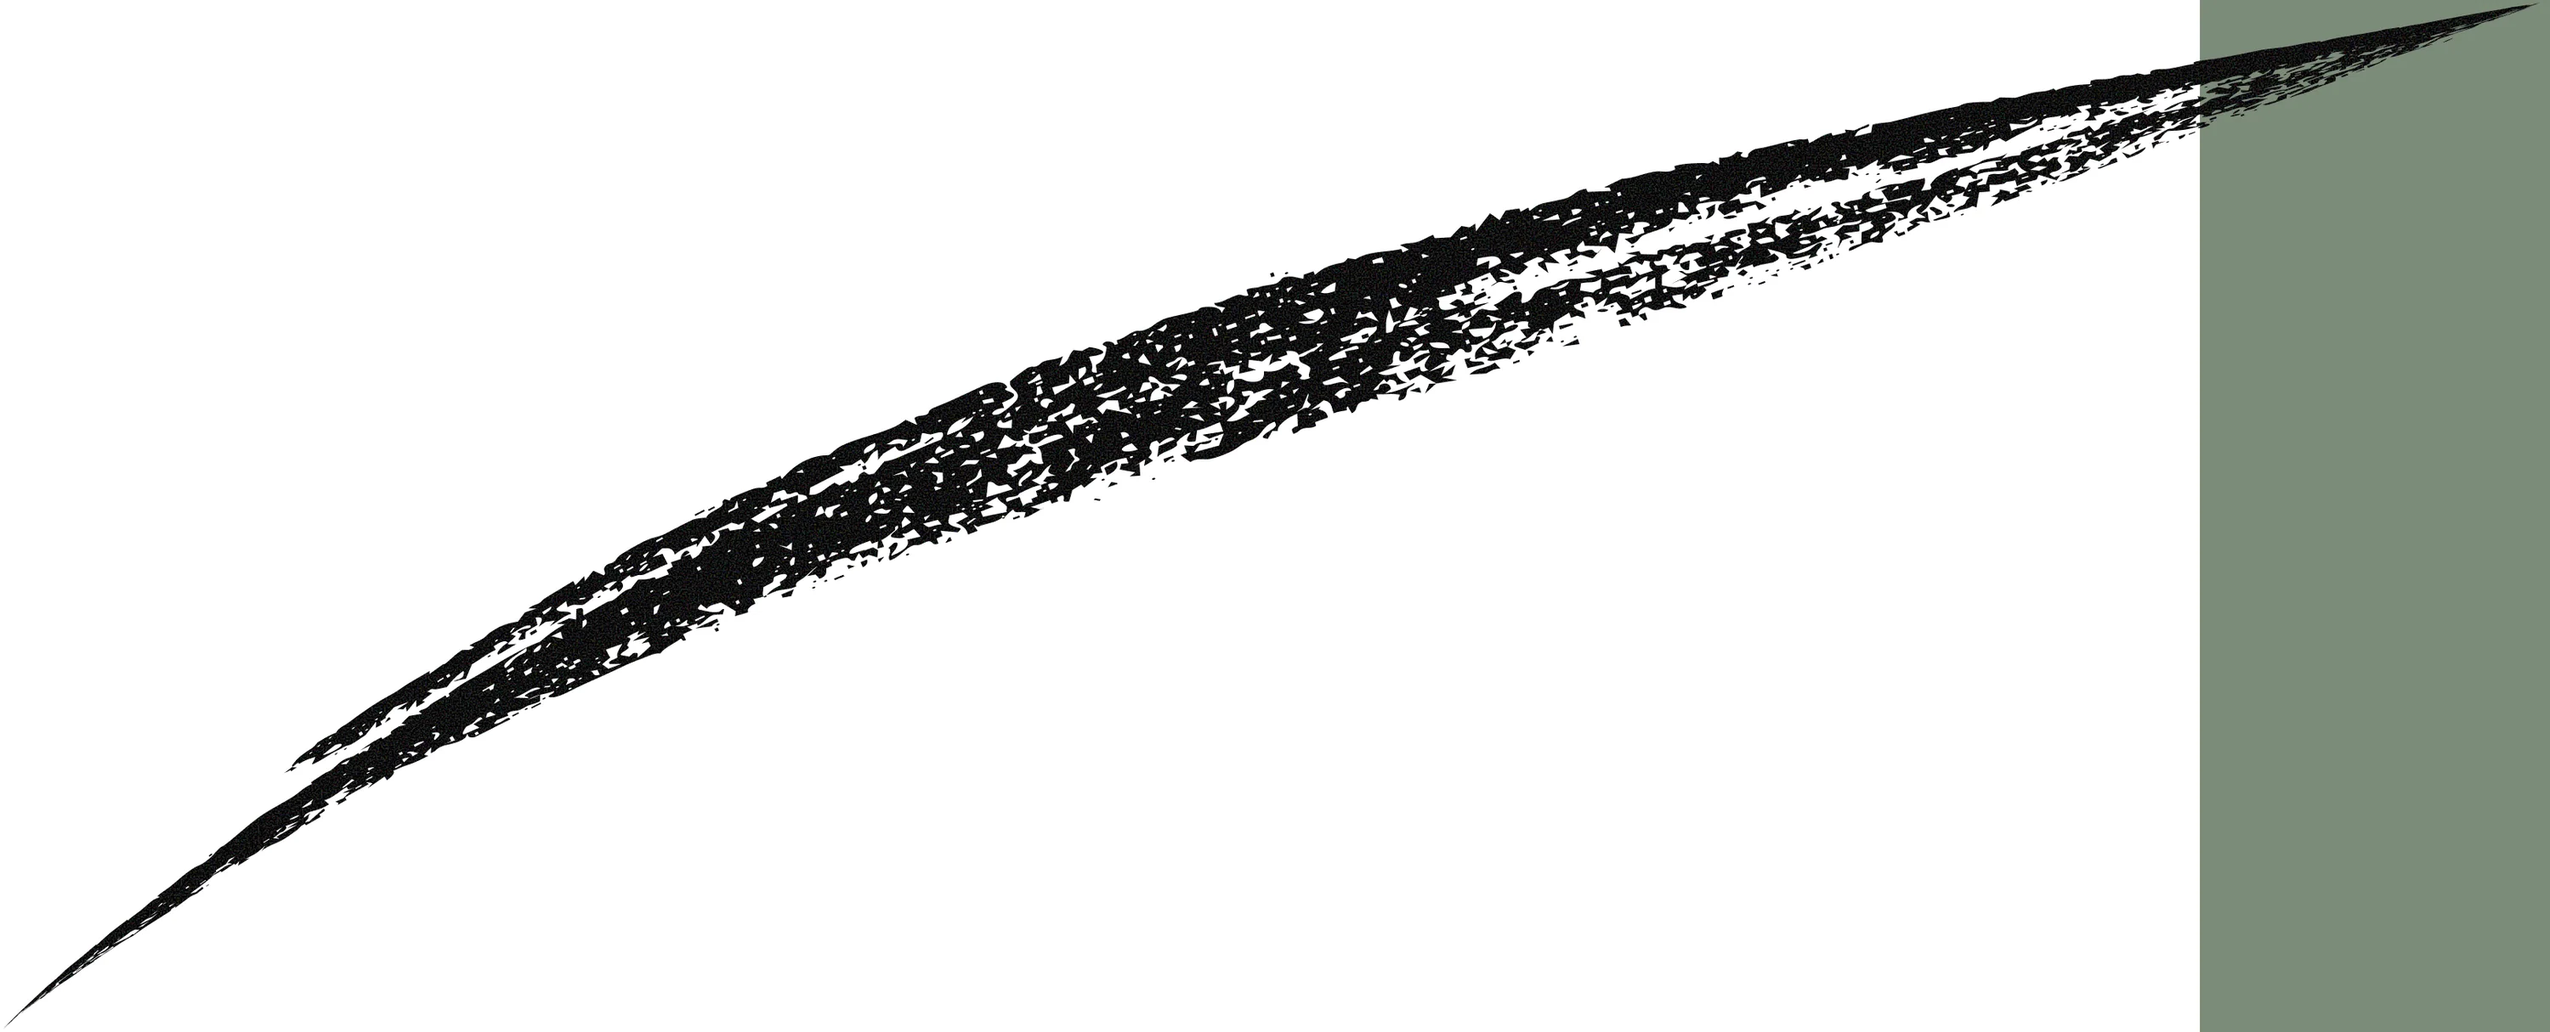
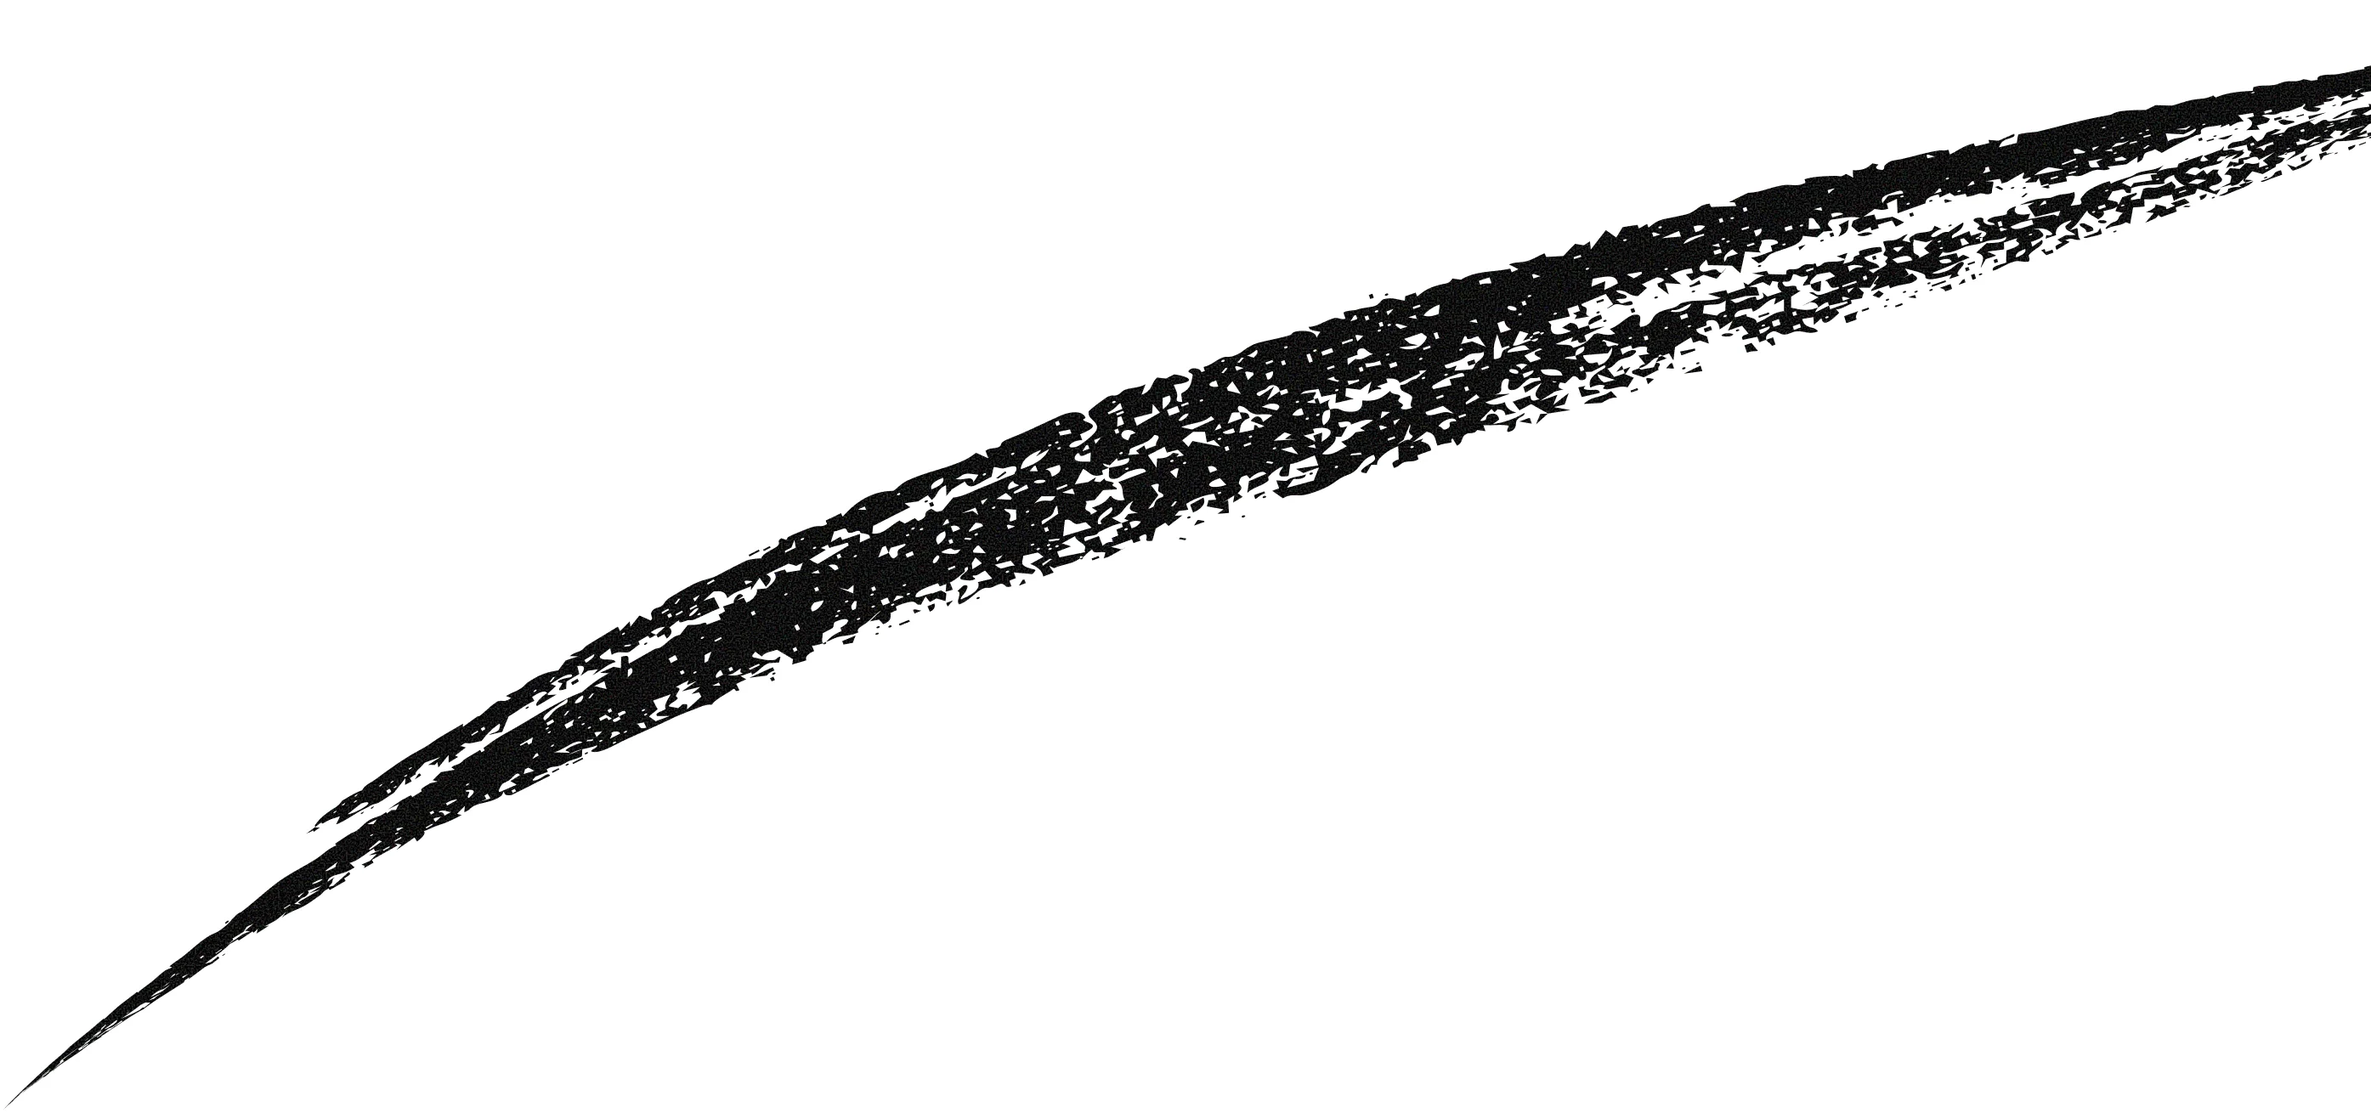
HOME hover colours, footer contact links, remove stray line in COLLECTIONS
Category labels, season nav (name + arrow) and VIEW ALL turn #831A1F on hover via .hover-group/:has. Archive Sweep renders trimmed at the Figma frame edge (the export's grey off-frame area showed as a vertical line); originals kept as .png.orig. Footer contact e-mails are mailto: links, IG opens the Instagram profile. check-home 31, check-site 35.

Changed region(s): [[0.0312, 0.0, 1.0, 1.0], [0.0, 0.944, 0.0312, 0.9745]]

diff --git a/src/components/home/Collections.tsx b/src/components/home/Collections.tsx
@@ -9,7 +9,7 @@ const img = (name: string) => `/images/home/${name}.webp`;
 
 /** Transparent hit area for a season switch (the visual is drawn by the text / arrow / background layers). */
 function SeasonSwitch({ d, m, label, onClick }: { d?: Box; m?: Box; label: string; onClick: () => void }) {
-  const p = place({ d, m }, 'col__switch');
+  const p = place({ d, m }, 'col__switch hover-target');
   return <button type="button" className={p.className} style={p.style} aria-label={label} onClick={onClick} />;
 }
 
@@ -21,10 +21,31 @@ function NavFrame({ d, viewAll, viewAllText }: { d: Box; viewAll: Box; viewAllTe
   return (
     <>
       <Frame className="col__nav" d={d} m={[16, 3016, 269, 48]} />
-      <Pic src={img('r-viewall-bg')} fit="fill" d={viewAll} />
-      <Frame className="col__nav-viewall" m={[285, 3016, 92, 48]} />
-      <T fs={[24, 16]} cls="f-sans w300 tr-4 c-inverse" d={viewAllText} m={[363, 3031]} ax="r">VIEW ALL</T>
+      {/* hovering the VIEW ALL cell turns its text #831A1F (no target design — colour only) */}
+      <div className="hover-group">
+        <Pic src={img('r-viewall-bg')} fit="fill" d={viewAll} className="hover-target" />
+        <Frame className="col__nav-viewall hover-target" m={[285, 3016, 92, 48]} />
+        <T fs={[24, 16]} cls="f-sans w300 tr-4 c-inverse hover-accent hover-target" d={viewAllText} m={[363, 3031]} ax="r">VIEW ALL</T>
+      </div>
     </>
+  );
+}
+
+/**
+ * Season navigation item (collection name + arrow): hovering it turns both #831A1F.
+ * With `onClick` a transparent button covers the item; without it (SS27 / AW25, no design) it is colour-only.
+ */
+function SeasonItem({ text, textBox, align, arrow, arrowM, arrowDir, hit, hitM, label, onClick }: {
+  text: string; textBox: Box; align?: 'r'; arrow: Box; arrowM: Box; arrowDir: 'left' | 'right';
+  hit?: Box; hitM?: Box; label?: string; onClick?: () => void;
+}) {
+  return (
+    <div className="hover-group">
+      <T fs={[24]} cls="f-sans w300 tr-4 hover-accent hover-target" d={textBox} ax={align}>{text}</T>
+      <Arrow variant="nav" dir={arrowDir} className="hover-accent hover-target" d={arrow} />
+      <Arrow variant="navM" dir={arrowDir} m={arrowM} />
+      {onClick && hit && <SeasonSwitch d={hit} m={hitM} label={label ?? text} onClick={onClick} />}
+    </div>
   );
 }
 
@@ -46,19 +67,16 @@ export function Collections() {
           <Pic src={img('r-ss26-detail')} fit="fill" className="col__img" d={[60, 6517, 344, 460]} m={[293, 2751, 84, 111]} alt="SS26 SAMPLING" />
 
           <NavFrame d={[60, 7036.99, 1799, 77.852]} viewAll={[1496, 7037, 364, 77.838]} viewAllText={[1825.91, 7061.32]} />
-          <T fs={[24]} cls="f-sans w300 tr-4" d={[1386, 7060.64]} ax="r">AW26: [UNEARTH: FILE-2711]</T>
-          <Arrow variant="nav" dir="right" d={[1409, 7060.64, 43, 27.12]} />
-          <T fs={[24]} cls="f-sans w300 tr-4" d={[160, 7062.61]}>AW25: AW25 LAMB&apos;S HEAD AND THE SHELL</T>
-          <Arrow variant="nav" d={[94, 7062.61, 43, 27.12]} />
-          <Arrow variant="navM" dir="right" m={[248, 3034, 19, 12.16]} />
-          <Arrow variant="navM" m={[33, 3039, 19, 12.16]} />
-          <SeasonSwitch d={[1096, 7060.64, 356, 28.6]} m={[16, 3016, 269, 48]} label="AW26 컬렉션 보기" onClick={() => setSeason('AW26')} />
+          <SeasonItem text="AW26: [UNEARTH: FILE-2711]" textBox={[1386, 7060.64]} align="r" arrow={[1409, 7060.64, 43, 27.12]} arrowM={[248, 3034, 19, 12.16]} arrowDir="right"
+            hit={[1096, 7060.64, 356, 28.6]} hitM={[16, 3016, 269, 48]} label="AW26 컬렉션 보기" onClick={() => setSeason('AW26')} />
+          <SeasonItem text="AW25: AW25 LAMB'S HEAD AND THE SHELL" textBox={[160, 7062.61]} arrow={[94, 7062.61, 43, 27.12]} arrowM={[33, 3039, 19, 12.16]} arrowDir="left" />
 
-          {/* Decoration / Archive Sweep (noise effect) — 2x renders placed at their render bounds */}
-          <Pic src={img('r-sweep-large')} fit="fill" className="col__sweep" d={[525, 5928.84, 1617, 655]} />
-          <Pic src={img('r-sweep-large-m')} fit="fill" className="col__sweep" m={[36.15, 2519.13, 472.06, 220.48]} />
-          <Pic src={img('r-sweep-small')} fit="fill" className="col__sweep" d={[1351.85, 5854.5, 651.65, 467.15]} />
-          <Pic src={img('r-sweep-small-m')} fit="fill" className="col__sweep" m={[220.32, 2496, 236.36, 200.24]} />
+          {/* Decoration / Archive Sweep (noise effect) — 2x renders placed at their render bounds, trimmed at the frame's right
+              edge (the export's grey off-frame area showed as a line; scripts/trim-frame-edge.mjs) */}
+          <Pic src={img('r-sweep-large')} fit="fill" className="col__sweep" d={[525, 5928.84, 1395, 655]} />
+          <Pic src={img('r-sweep-large-m')} fit="fill" className="col__sweep" m={[36.15, 2519.13, 356.67, 220.48]} />
+          <Pic src={img('r-sweep-small')} fit="fill" className="col__sweep" d={[1351.85, 5854.5, 567.7, 467.15]} />
+          <Pic src={img('r-sweep-small-m')} fit="fill" className="col__sweep" m={[220.32, 2496, 172.4, 200.24]} />
 
           <Pic src={img('r-ss26-main')} fit="fill" className="col__img" d={[909, 6191, 587, 786]} m={[16, 2623, 269, 361]} alt="SS26 SAMPLING" />
           <Pic src={img('ss26-secondary')} fit="cover" className="col__img" d={[1516, 6191.16, 344, 461]} m={[293, 2623, 84, 113]} alt="SS26 SAMPLING" />
@@ -73,13 +91,9 @@ export function Collections() {
           </RotatedBox>
 
           <NavFrame d={[60, 7036, 1800, 78]} viewAll={[1496.8, 7036.16, 363.2, 77.84]} viewAllText={[1826, 7060.48]} />
-          <T fs={[24]} cls="f-sans w300 tr-4" d={[1386.74, 7059.7]} ax="r">SS27: BRUTALIST</T>
-          <Arrow variant="nav" dir="right" d={[1409.75, 7059.7, 43.02, 27.17]} />
-          <T fs={[24]} cls="f-sans w300 tr-4" d={[160.06, 7061.67]}>SS26: SAMPLING</T>
-          <Arrow variant="nav" d={[94.02, 7061.67, 43.02, 27.17]} />
-          <Arrow variant="navM" dir="right" m={[248, 3034, 19, 12.16]} />
-          <Arrow variant="navM" m={[33, 3034, 19, 12.16]} />
-          <SeasonSwitch d={[94, 7061.67, 239, 28.6]} m={[16, 3016, 269, 48]} label="SS26 컬렉션으로 돌아가기" onClick={() => setSeason('SS26')} />
+          <SeasonItem text="SS27: BRUTALIST" textBox={[1386.74, 7059.7]} align="r" arrow={[1409.75, 7059.7, 43.02, 27.17]} arrowM={[248, 3034, 19, 12.16]} arrowDir="right" />
+          <SeasonItem text="SS26: SAMPLING" textBox={[160.06, 7061.67]} arrow={[94.02, 7061.67, 43.02, 27.17]} arrowM={[33, 3034, 19, 12.16]} arrowDir="left"
+            hit={[94, 7061.67, 239, 28.6]} hitM={[16, 3016, 269, 48]} label="SS26 컬렉션으로 돌아가기" onClick={() => setSeason('SS26')} />
 
           <RotatedText fs={[50, 16]} deg={[-90, 90]} cls="f-sans w600 tr-4" d={[1813, 6200, 60, 142]} m={[303, 2939, 19, 46]}>‘AW26</RotatedText>
           <RotatedText fs={[14, 10]} deg={[-90, 90]} cls="f-mono w400 tr-4 ta-r" d={[1844, 6345, 18, 158]} m={[292, 2872, 13, 113]}>[UNEARTH: FILE-2711]</RotatedText>

diff --git a/src/components/home/ShopCategories.tsx b/src/components/home/ShopCategories.tsx
@@ -5,7 +5,8 @@ const img = (name: string) => `/images/home/${name}.webp`;
 
 /**
  * 04 / Shop Categories — Desktop 1115:625 · Mobile 1213:3406.
- * Cards keep the Figma layer order. Category cards have no link target (not requested) — hover swap only.
+ * Cards keep the Figma layer order. Category cards have no link target (not requested) — hover swap only;
+ * while a card image is hovered its label turns #831A1F (feedback 2026-10-10).
  * Most state images carry Figma image adjustments, so their 2x node renders (r-*) are used with 'fill'.
  * Arrays = Figma CROP imageTransform converted to % (see CurrentCollection).
  */
@@ -16,15 +17,15 @@ export function ShopCategories() {
       <HoverSwap
         base={{ src: img('r-cat-bottoms-default'), fit: 'fill', d: [545, 3875, 465, 357], m: [201, 1733.52, 175.878, 135.216], alt: 'BOTTOMS' }}
         hover={{ src: img('r-cat-bottoms-hover'), fit: 'fill', d: [545, 3875, 465, 357], m: [201.12, 1733.52, 175.878, 135.216] }}
+        under={<T fs={[24, 14]} cls="f-sans w500 tr-4 hover-accent" d={[545, 4247]} m={[201, 1874.71]}>BOTTOMS</T>}
       />
-      <T fs={[24, 14]} cls="f-sans w500 tr-4" d={[545, 4247]} m={[201, 1874.71]}>BOTTOMS</T>
 
       {/* Category Card / Outerwear */}
       <HoverSwap
         base={{ src: img('r-cat-outerwear-default'), fit: 'fill', d: [60, 3875, 465, 357], m: [16, 1734, 177, 135.89], alt: 'OUTERWEAR' }}
         hover={{ src: img('r-cat-outerwear-hover'), fit: 'fill', d: [60, 3875, 465, 357], m: [16, 1734, 177, 135.89] }}
+        under={<T fs={[24, 14]} cls="f-sans w500 tr-4 hover-accent" d={[60, 4247]} m={[16, 1875.8]}>OUTERWEAR</T>}
       />
-      <T fs={[24, 14]} cls="f-sans w500 tr-4" d={[60, 4247]} m={[16, 1875.8]}>OUTERWEAR</T>
 
       {/* Category Card / Tops: underlay, caption and label sit under the state images */}
       <HoverSwap
@@ -32,7 +33,7 @@ export function ShopCategories() {
           <>
             <Pic src={img('cat-tops-underlay')} fit={[-10.45, 0, 235.88, 100]} d={[1152, 3875, 708, 944]} m={[201, 1911.71, 176, 234.667]} />
             <T fs={[16]} cls="f-sans w400 tr-42" d={[1829, 4062]}>ACC</T>
-            <T fs={[24, 14]} cls="f-sans w500 tr-42" d={[1152, 4835]} m={[201, 2150.71]}>TOPS</T>
+            <T fs={[24, 14]} cls="f-sans w500 tr-42 hover-accent" d={[1152, 4835]} m={[201, 2150.71]}>TOPS</T>
           </>
         }
         base={{ src: img('r-cat-tops-default'), fit: 'fill', d: [1152, 3875, 708, 944], m: [201, 1911.71, 176, 234.666], alt: 'TOPS' }}
@@ -43,12 +44,12 @@ export function ShopCategories() {
       <HoverSwap
         base={{ src: img('r-cat-all-default'), fit: 'fill', d: [60, 3001, 587, 783], m: [16, 1204, 361, 481.538], alt: 'ALL' }}
         hover={{ src: img('r-cat-all-hover'), fit: 'fill', d: [60, 3001, 587, 783], m: [16, 1204, 361, 481.538] }}
+        under={<T fs={[24, 14]} cls="f-sans w500 tr-4 hover-accent" d={[60, 3801]} m={[16, 1696.52]}>ALL</T>}
       />
-      <T fs={[24, 14]} cls="f-sans w500 tr-4" d={[60, 3801]} m={[16, 1696.52]}>ALL</T>
 
       {/* Category Card / Accessories (label is under the images in Figma) */}
       <HoverSwap
-        under={<T fs={[24, 14]} cls="f-sans w500 tr-4" d={[1273, 3467]} m={[16, 2053]}>ACC</T>}
+        under={<T fs={[24, 14]} cls="f-sans w500 tr-4 hover-accent" d={[1273, 3467]} m={[16, 2053]}>ACC</T>}
         base={{ src: img('cat-acc-default'), fit: [-2.31, -55.08, 104.75, 155], d: [1273, 3001, 587, 451], m: [16, 1912, 176.943, 136.035], alt: 'ACCESSORIES' }}
         hover={{ src: img('r-cat-acc-hover'), fit: 'fill', d: [1273, 3001, 587, 451], m: [16.06, 1912, 176.943, 136.035] }}
       />

diff --git a/src/components/layout/Footer.tsx b/src/components/layout/Footer.tsx
@@ -1,5 +1,5 @@
-import { Fragment } from 'react';
-import { Frame, Section, T } from '../../lib/artboard';
+import { Fragment, type CSSProperties } from 'react';
+import { Frame, Section, T, place } from '../../lib/artboard';
 import { Arrow } from '../ui/Arrow';
 import './Footer.css';
 
@@ -7,7 +7,8 @@ import './Footer.css';
  * 08 / Footer — Desktop 1113:10599 (600 high) · Mobile 1213:3405 (276 high).
  * Coordinates are relative to the footer top. Font: IBM Plex Mono everywhere (Home footer is the reference;
  * the Helvetica Neue licence line in Shop / Product frames is unified to Plex Mono, see docs/IMPLEMENTATION_PLAN.md §8).
- * Legal links, e-mail addresses and the mobile CONTACT button have no target defined — not interactive.
+ * Contact directory addresses are links (feedback 2026-10-10): e-mail → mailto:, IG handle → Instagram profile.
+ * Legal links, the company-info e-mail and the mobile CONTACT button have no target defined — not interactive.
  */
 
 type Field = { label: string; d: number; m: number; vd: number; vm: number; value: string; valueM?: string };
@@ -22,11 +23,11 @@ const FIELDS: Field[] = [
 ];
 
 const CONTACTS = [
-  { label: 'GENERAL REQUESTS', value: 'CARNET@CARNETARCHIVE.COM', y: 289, x: 1630, anchor: 'l' as const },
-  { label: 'SALES', value: 'SALES@CARNETARCHIVE.COM', y: 339, x: 1860, anchor: 'r' as const },
-  { label: 'PRESS@CARNETARCHIVE.COM', value: 'PRESS@CARNETARCHIVE.COM', y: 389, x: 1860, anchor: 'r' as const },
-  { label: 'E-SHOP', value: 'SHOP@CARNETARCHIVE.COM', y: 439, x: 1861, anchor: 'r' as const },
-  { label: 'IG', value: '@CARNETARCHIVE', y: 489, x: 1861, anchor: 'r' as const },
+  { label: 'GENERAL REQUESTS', value: 'CARNET@CARNETARCHIVE.COM', y: 289, x: 1630, anchor: 'l' as const, href: 'mailto:CARNET@CARNETARCHIVE.COM' },
+  { label: 'SALES', value: 'SALES@CARNETARCHIVE.COM', y: 339, x: 1860, anchor: 'r' as const, href: 'mailto:SALES@CARNETARCHIVE.COM' },
+  { label: 'PRESS@CARNETARCHIVE.COM', value: 'PRESS@CARNETARCHIVE.COM', y: 389, x: 1860, anchor: 'r' as const, href: 'mailto:PRESS@CARNETARCHIVE.COM' },
+  { label: 'E-SHOP', value: 'SHOP@CARNETARCHIVE.COM', y: 439, x: 1861, anchor: 'r' as const, href: 'mailto:SHOP@CARNETARCHIVE.COM' },
+  { label: 'IG', value: '@CARNETARCHIVE', y: 489, x: 1861, anchor: 'r' as const, href: 'https://www.instagram.com/carnetarchive/' },
 ];
 
 export function Footer() {
@@ -62,7 +63,11 @@ export function Footer() {
       {CONTACTS.map((c) => (
         <Fragment key={c.label + c.y}>
           <T fs={[16]} cls="f-mono w600 c-inverse" d={[1152, c.y]}>{c.label}</T>
-          <T fs={[16]} cls="f-mono w400 c-inverse" d={[c.x, c.y]} ax={c.anchor}>{c.value}</T>
+          {c.href ? (
+            <a href={c.href} {...(c.href.startsWith('http') ? { target: '_blank', rel: 'noopener noreferrer' } : {})} {...place({ d: [c.x, c.y], ax: c.anchor }, 't f-mono w400 c-inverse hover-accent', { '--fs': 16, '--mfs': 16 } as CSSProperties)}>{c.value}</a>
+          ) : (
+            <T fs={[16]} cls="f-mono w400 c-inverse" d={[c.x, c.y]} ax={c.anchor}>{c.value}</T>
+          )}
           <Frame className="rule c-inverse" d={[1152, c.y + 35, 708]} />
         </Fragment>
       ))}

diff --git a/src/styles/base.css b/src/styles/base.css
@@ -94,6 +94,17 @@ button { font: inherit; color: inherit; background: none; border: 0; padding: 0;
 .wrap { white-space: normal; }
 .ta-r { text-align: right; } .ta-c { text-align: center; }
 
+/*
+ * Hover colour groups: hovering any .hover-target inside a .hover-group turns its .hover-accent parts (text, arrows)
+ * #831A1F. The group adds no box (display: contents), so absolutely placed parts keep their positions.
+ */
+.hover-group { display: contents; }
+.hover-accent { transition: color var(--motion-hover-duration) var(--motion-ease-out); }
+@media (hover: hover) and (pointer: fine) {
+  .hover-group:has(.hover-target:hover) .hover-accent { color: var(--color-accent-brand); }
+  a.hover-accent:hover { color: var(--color-accent-brand); }
+}
+
 /* ---------- Media ---------- */
 .media { overflow: hidden; }
 .media > img { position: absolute; max-width: none; pointer-events: none; user-select: none; }

diff --git a/src/components/media/HoverSwap.tsx b/src/components/media/HoverSwap.tsx
@@ -18,9 +18,10 @@ type Props = {
  */
 export function HoverSwap({ base, hover, under }: Props) {
   const [active, setActive] = useState(false);
-  const hit = place({ d: base.d, m: base.m }, 'swap__hit');
+  const hit = place({ d: base.d, m: base.m }, 'swap__hit hover-target');
+  // .hover-group: parts marked .hover-accent (e.g. the card label) turn #831A1F while the image is hovered
   return (
-    <>
+    <div className="hover-group">
       {under}
       <Pic {...base} className="swap__base" />
       <Pic {...hover} className={`swap__hover${active ? ' is-active' : ''}`} />
@@ -31,6 +32,6 @@ export function HoverSwap({ base, hover, under }: Props) {
         onPointerEnter={(e) => e.pointerType === 'mouse' && setActive(true)}
         onPointerLeave={() => setActive(false)}
       />
-    </>
+    </div>
   );
 }

diff --git a/docs/IMPLEMENTATION_PLAN.md b/docs/IMPLEMENTATION_PLAN.md
@@ -353,6 +353,9 @@ carnet-archive/
 | HOME 워드마크 효과 | CARNET-ARCHIVE(라인 포함) 전체를 한 번에 왼→오 노출, 더 천천히 (피드백) | 그룹 하나로 노출, 시간 0.8s → 1.4s. 모션 스타일: Jitter 'Dithering Effect' 템플릿처럼 글자 모양 위에만 작은 블록(글자 크기의 9%)이 깜빡이다(불투명/반투명) 실제 글자로 바뀜, 왼→오 + 무작위 분산. 재생 중 canvas, 끝나면 실제 DOM 텍스트 |
 | HOME 가로 갤러리 (H-2) | 마우스 휠 대신 커서(드래그)로 스크롤 (피드백, Q8 대체) | 마우스 드래그 → 가로 스크롤, grab 커서, 휠은 페이지 스크롤. 터치는 기본 스와이프 |
 | 레이아웃보다 넓은 화면의 AW26 섹션 오른쪽 경계선 | 제거 (피드백) | 갤러리를 화면 끝까지 확장. 텍스처는 Figma 프레임 밖에 다른 이미지가 있어 레이아웃 경계 안쪽 12%에서 흰색으로 페이드 (1920·393 화면은 변화 없음) |
+| HOME hover 색 | SHOP 카테고리 이미지 hover → 해당 라벨, COLLECTIONS 시즌 이동(이름+화살표), VIEW ALL → #831A1F (피드백) | `.hover-group` / `.hover-target` / `.hover-accent` (CSS `:has`). SS27·AW25·VIEW ALL은 대상 없음 → 색만 변경 |
+| COLLECTIONS 오른쪽 세로선 | 제거 (피드백) | 곡선(Archive Sweep) 렌더에 Figma 프레임 밖 회색 영역이 포함돼 있었음 → 프레임 경계에서 잘라냄 (`scripts/trim-frame-edge.mjs`, 원본은 `.png.orig`) |
+| 푸터 CONTACT 주소 | 클릭 시 해당 주소로 (피드백) | 이메일 4개 → `mailto:`, IG `@CARNETARCHIVE` → `instagram.com/carnetarchive` (새 탭). 회사정보 EMAIL·모바일 CONTACT 버튼은 그대로 |
 | 메뉴·장바구니·알림 | Figma(구현 페이지·DS 페이지)와 DEV SPEC 어디에도 디자인 없음. DEV SPEC: "장바구니 알림 디자인…은 지정되지 않았다" | 보류. 헤더 아이콘·BUY/CART는 시각 요소만 |
 
 ---
